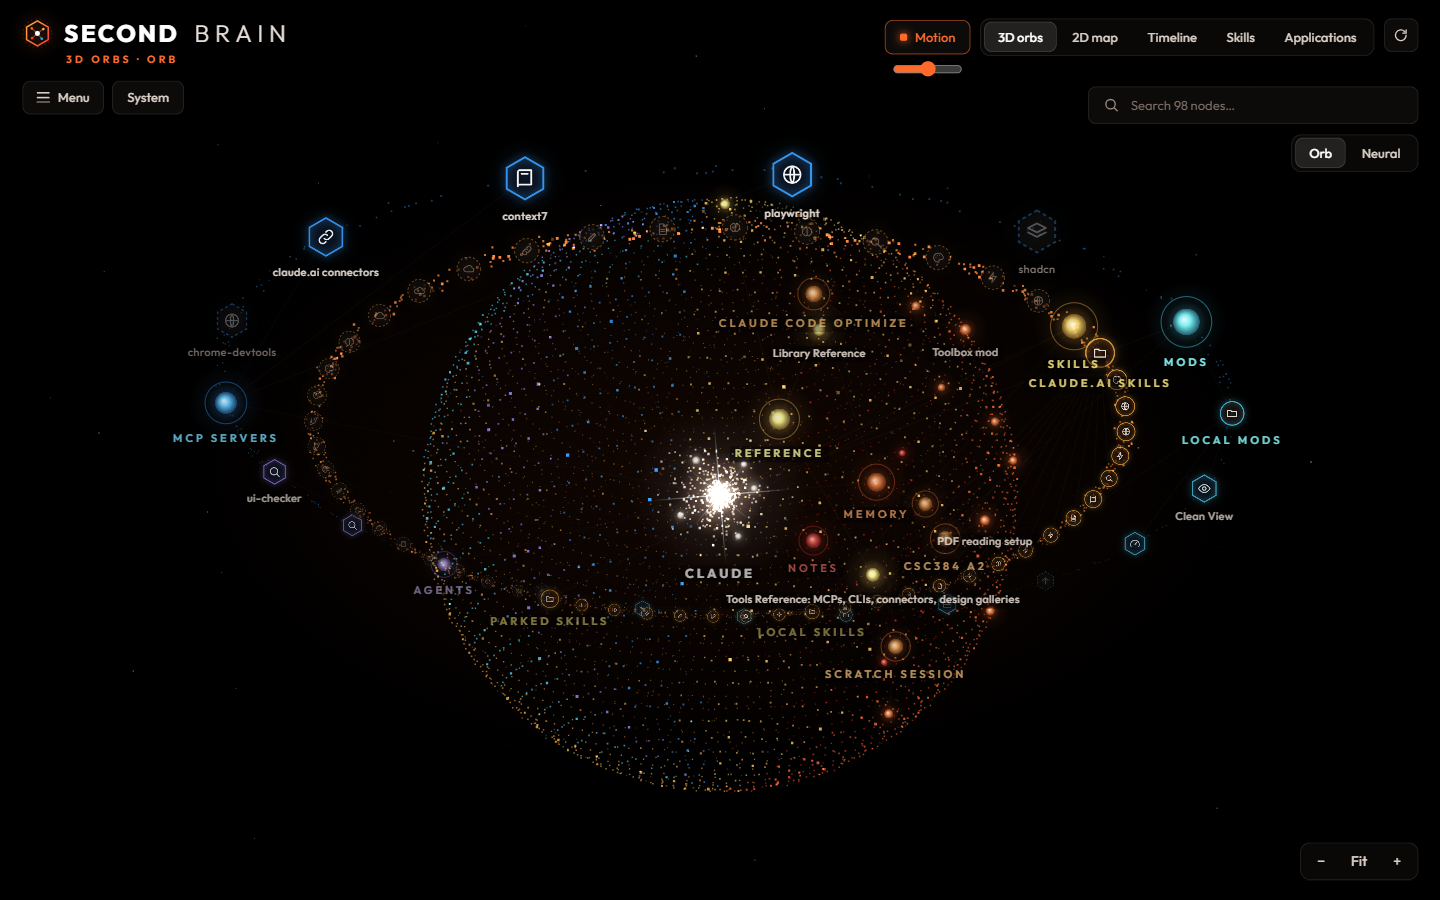
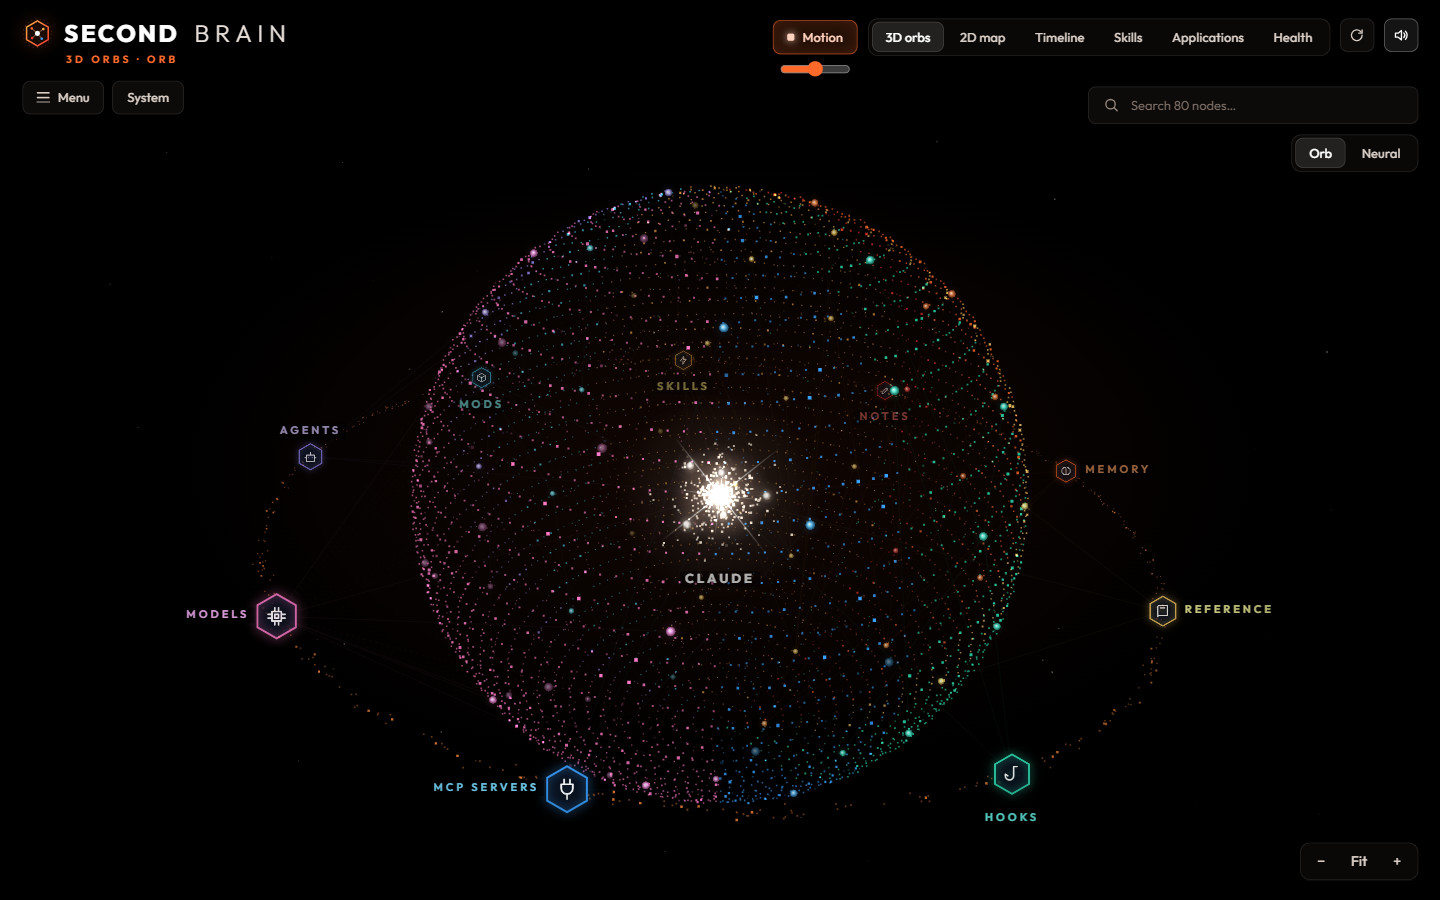
✨ feat: Add sound effects and view the orb ring from above
- Synthesize hover, select, close, view-change and button sounds with Web Audio, with a mute pill
- Flip the default orb camera pitch so the nearest hubs sit at the bottom and look biggest
- Add a ?demo URL switch for screenshots
- Refresh the README screenshots and social preview image

diff --git a/js/app.js b/js/app.js
@@ -8,6 +8,7 @@ function startSecondBrain(isDemo) {
   }
   const { Physics, OrbitCamera } = window.NeuralEngine;
   const Layouts = window.NeuralLayouts;
+  const Sfx = window.NeuralSfx || { play() {}, setEnabled() {} }; // sound is optional
   const TAU = Math.PI * 2;
 
   // Warm palette: knowledge in oranges and reds, tools that reach outside (mods, MCP, agents) in cool accents.
@@ -152,10 +153,11 @@ function startSecondBrain(isDemo) {
 
   // ---------- views and layouts ----------
   const PREF_KEY = 'second-brain:view';
-  const prefs = { view: 'orbs', sub: { orbs: 'orb', map: 'rings' } };
+  const prefs = { view: 'orbs', sub: { orbs: 'orb', map: 'rings' }, sound: true };
   try {
     const saved = JSON.parse(localStorage.getItem(PREF_KEY) || '{}');
     if (typeof saved.view === 'string') prefs.view = saved.view;
+    if (typeof saved.sound === 'boolean') prefs.sound = saved.sound;
     if (saved.sub && typeof saved.sub === 'object') for (const k of ['orbs', 'map']) if (typeof saved.sub[k] === 'string') prefs.sub[k] = saved.sub[k];
   } catch { /* storage blocked or malformed */ }
   const savePrefs = () => { try { localStorage.setItem(PREF_KEY, JSON.stringify(prefs)); } catch { /* storage blocked */ } };
@@ -164,6 +166,7 @@ function startSecondBrain(isDemo) {
   function setLayout(name) {
     if (name === layout || !Layouts.names.includes(name)) return;
     const wasFlat = state.flat, first = layout === null;
+    if (!first) Sfx.play('morph');
     layout = name;
     state.layout = name;
     const res = Layouts.build(name, layoutCtx, DUST_COUNT);
@@ -184,7 +187,7 @@ function startSecondBrain(isDemo) {
       if (!first) physics.reheat(1);
     }
     if (state.flat) { cam.goal.yaw = Math.round(cam.goal.yaw / TAU) * TAU; cam.goal.pitch = 0; }
-    else if (wasFlat || first) cam.goal.pitch = -0.46;
+    else if (wasFlat || first) cam.goal.pitch = 0.46;
     if (!state.selected) recenter();
   }
 
@@ -412,6 +415,7 @@ function startSecondBrain(isDemo) {
     if (state.hovered === n) return;
     state.hovered = n;
     if (!n || isPhone()) { tooltip.hidden = true; state.tooltipAt = null; return; }
+    Sfx.play('hover', n);
     tooltip.style.setProperty('--c', n.color);
     tooltip.innerHTML = `<div class="t">${esc(TYPE_NAMES[n.type]).toUpperCase()}${n.sub && n.sub !== 'memory' ? ' · ' + esc(n.sub).toUpperCase() : ''}</div><strong>${esc(n.label)}</strong>${n.desc ? `<span>${esc(truncate(n.desc, 110))}</span>` : ''}`;
     tooltip.hidden = false;
@@ -471,6 +475,7 @@ function startSecondBrain(isDemo) {
   function select(n) {
     if (!n) return;
     if (!n.visibleNow) { for (const f of FILTERS) if (f.dormant ? n.active === false : f.types.includes(n.channel)) hidden.delete(f.key); refreshVisibility(); renderFilters(); }
+    if (state.selected !== n) Sfx.play('select', n);
     state.selected = n;
     setHover(null);
     fitting = false;
@@ -526,6 +531,7 @@ function startSecondBrain(isDemo) {
 
   function closePanel() {
     if (!state.selected) return;
+    Sfx.play('close');
     state.selected = null;
     panel.classList.remove('open');
     panel.setAttribute('aria-hidden', 'true');
@@ -700,10 +706,16 @@ function startSecondBrain(isDemo) {
   const syncOrbitBtn = () => { orbitBtn.classList.toggle('on', autoOrbit); orbitBtn.setAttribute('aria-pressed', String(autoOrbit)); };
   orbitBtn.addEventListener('click', () => { autoOrbit = !autoOrbit; lastInteract = 0; syncOrbitBtn(); });
   syncOrbitBtn();
+  const soundBtn = $('#sound');
+  const syncSoundBtn = () => { soundBtn.classList.toggle('on', prefs.sound); soundBtn.setAttribute('aria-pressed', String(prefs.sound)); };
+  Sfx.setEnabled(prefs.sound); syncSoundBtn();
+  soundBtn.addEventListener('click', () => { prefs.sound = !prefs.sound; Sfx.setEnabled(prefs.sound); syncSoundBtn(); savePrefs(); });
+  // A soft tap for every other button in the HUD.
+  document.addEventListener('click', (e) => { const b = e.target.closest('button'); if (b && b !== soundBtn) Sfx.play('tap'); });
   speed.addEventListener('input', () => { state.motion = Number(speed.value) / 100; });
   $('#recenter').addEventListener('click', () => {
     if (state.selected) closePanel(); else recenter();
-    cam.goal.pitch = state.flat ? 0 : -0.46;
+    cam.goal.pitch = state.flat ? 0 : 0.46;
     state.highlight = null; activeDay = null; renderActivity();
     input.value = ''; state.searchHits = null; results.hidden = true;
   });

diff --git a/js/sfx.js b/js/sfx.js
@@ -1,0 +1,84 @@
+// Sound effects, synthesized with the Web Audio API (no audio files, no dependencies). Exposes window.NeuralSfx.
+// The AudioContext is created lazily on the first sound, which always follows a click, so browsers allow it.
+(() => {
+  let ac = null, master = null, enabled = true, lastHover = 0;
+
+  function ctx() {
+    if (ac) { if (ac.state === 'suspended') ac.resume(); return ac; }
+    const AC = window.AudioContext || window.webkitAudioContext;
+    if (!AC) return null;
+    ac = new AC();
+    const comp = ac.createDynamicsCompressor();
+    master = ac.createGain();
+    master.gain.value = 0.22;
+    master.connect(comp).connect(ac.destination);
+    return ac;
+  }
+
+  // One enveloped oscillator: quick attack, exponential decay, optional pitch glide.
+  function tone({ freq, to = freq, type = 'sine', at = 0, dur = 0.12, vol = 0.5, attack = 0.005 }) {
+    const t = ac.currentTime + at, o = ac.createOscillator(), g = ac.createGain();
+    o.type = type;
+    o.frequency.setValueAtTime(freq, t);
+    if (to !== freq) o.frequency.exponentialRampToValueAtTime(to, t + dur);
+    g.gain.setValueAtTime(0.0001, t);
+    g.gain.exponentialRampToValueAtTime(vol, t + attack);
+    g.gain.exponentialRampToValueAtTime(0.0001, t + dur);
+    o.connect(g).connect(master);
+    o.start(t); o.stop(t + dur + 0.02);
+  }
+
+  // Band-passed noise swept from `from` to `to` Hz: a soft whoosh.
+  let noiseBuf = null;
+  function whoosh({ from = 300, to = 2400, dur = 0.7, vol = 0.35 }) {
+    if (!noiseBuf) {
+      noiseBuf = ac.createBuffer(1, ac.sampleRate, ac.sampleRate);
+      const d = noiseBuf.getChannelData(0);
+      for (let i = 0; i < d.length; i++) d[i] = Math.random() * 2 - 1;
+    }
+    const t = ac.currentTime, src = ac.createBufferSource(), bp = ac.createBiquadFilter(), g = ac.createGain();
+    src.buffer = noiseBuf; src.loop = true;
+    bp.type = 'bandpass'; bp.Q.value = 1.2;
+    bp.frequency.setValueAtTime(from, t);
+    bp.frequency.exponentialRampToValueAtTime(to, t + dur * 0.55);
+    bp.frequency.exponentialRampToValueAtTime(from * 1.5, t + dur);
+    g.gain.setValueAtTime(0.0001, t);
+    g.gain.exponentialRampToValueAtTime(vol, t + dur * 0.35);
+    g.gain.exponentialRampToValueAtTime(0.0001, t + dur);
+    src.connect(bp).connect(g).connect(master);
+    src.start(t); src.stop(t + dur + 0.05);
+  }
+
+  // Each node type gets its own note (a pentatonic scale), so selections sound related but distinct.
+  const SCALE = [523.25, 587.33, 659.25, 783.99, 880, 1046.5, 1174.66, 1318.51];
+  const TYPES = ['core', 'hub', 'memory', 'note', 'skill', 'hook', 'mod', 'mcp', 'agent', 'model', 'reference', 'section', 'project', 'group'];
+  const noteFor = (type) => SCALE[Math.max(0, TYPES.indexOf(type)) % SCALE.length];
+
+  const SOUNDS = {
+    tap: () => tone({ freq: 1400, to: 900, dur: 0.05, vol: 0.18, type: 'triangle' }),
+    hover: (n) => tone({ freq: noteFor(n && n.type) * 2, dur: 0.06, vol: 0.05 }),
+    select: (n) => {
+      const f = noteFor(n && n.type);
+      tone({ freq: f, dur: 0.5, vol: 0.32 });
+      tone({ freq: f * 1.5, at: 0.06, dur: 0.6, vol: 0.2 });
+      tone({ freq: f * 3, at: 0.06, dur: 0.25, vol: 0.05 });
+    },
+    close: () => tone({ freq: 700, to: 380, dur: 0.16, vol: 0.16, type: 'triangle' }),
+    morph: () => { whoosh({}); tone({ freq: 196, to: 261.6, dur: 0.8, vol: 0.12, attack: 0.2 }); },
+    on: () => { tone({ freq: 660, dur: 0.1, vol: 0.2 }); tone({ freq: 990, at: 0.07, dur: 0.16, vol: 0.18 }); },
+  };
+
+  // Browsers only let audio start after a gesture; until then stay silent (no console warnings, no queued sounds).
+  let unlocked = false;
+  const unlock = () => { unlocked = true; };
+  for (const ev of ['pointerdown', 'keydown']) window.addEventListener(ev, unlock, { once: true, capture: true });
+
+  function play(name, arg) {
+    if (!enabled || !unlocked || !SOUNDS[name]) return;
+    if (name === 'hover') { const now = performance.now(); if (now - lastHover < 70) return; lastHover = now; }
+    try { if (ctx()) SOUNDS[name](arg); } catch { /* audio unavailable */ }
+  }
+  function setEnabled(on) { enabled = !!on; if (enabled) play('on'); }
+
+  window.NeuralSfx = { play, setEnabled, get enabled() { return enabled; } };
+})();

diff --git a/index.html b/index.html
@@ -88,6 +88,7 @@
         </div>
         <nav class="tabs" id="tabs" aria-label="Views"></nav>
         <button id="recenter" class="pill icon" aria-label="Reset view" title="Reset view"><svg viewBox="0 0 24 24"><path d="M20 12a8 8 0 1 1-2.3-5.6M20 4v5h-5"/></svg></button>
+        <button id="sound" class="pill icon on" aria-pressed="true" aria-label="Sound effects" title="Sound effects"><svg viewBox="0 0 24 24"><path d="M4 9v6h4l5 4V5L8 9H4z"/><path class="wave" d="M16.5 8.5a5 5 0 0 1 0 7M19 6a8.5 8.5 0 0 1 0 12"/><path class="mute" d="M16 9l6 6M22 9l-6 6"/></svg></button>
       </div>
       <div class="search">
         <label><svg viewBox="0 0 24 24" aria-hidden="true"><path d="M11 4a7 7 0 1 0 0 14 7 7 0 0 0 0-14zM21 21l-5-5"/></svg><input id="search" type="search" placeholder="Search the brain…" autocomplete="off" spellcheck="false" aria-label="Search the brain"></label>
@@ -164,11 +165,13 @@
 
   <script src="https://cdnjs.cloudflare.com/ajax/libs/marked/12.0.2/marked.min.js" integrity="sha384-/TQbtLCAerC3jgaim+N78RZSDYV7ryeoBCVqTuzRrFec2akfBkHS7ACQ3PQhvMVi" crossorigin="anonymous" referrerpolicy="no-referrer"></script>
   <script src="https://cdnjs.cloudflare.com/ajax/libs/dompurify/3.1.6/purify.min.js" integrity="sha384-+VfUPEb0PdtChMwmBcBmykRMDd+v6D/oFmB3rZM/puCMDYcIvF968OimRh4KQY9a" crossorigin="anonymous" referrerpolicy="no-referrer"></script>
-  <script src="data.js"></script>
+  <!-- ?demo skips your data.js and shows the bundled demo brain (used for README screenshots). -->
+  <script>if (!/[?&]demo\b/.test(location.search)) document.write('<script src="data.js"><\/script>');</script>
   <script src="js/engine.js"></script>
   <script src="js/glyphs.js"></script>
   <script src="js/layouts.js"></script>
   <script src="js/renderer.js"></script>
+  <script src="js/sfx.js"></script>
   <script src="js/app.js"></script>
 </body>
 </html>

diff --git a/css/style.css b/css/style.css
@@ -47,6 +47,8 @@ body.deck-open #graph { opacity: 0.22; pointer-events: none; }
 .pill.accent.on { color: #ffd2bd; background: rgba(255, 106, 43, 0.14); box-shadow: inset 0 0 14px rgba(255, 106, 43, 0.15); }
 .pill .sq { width: 7px; height: 7px; border-radius: 2px; background: currentColor; box-shadow: 0 0 8px currentColor; }
 .pill.icon { width: 34px; padding: 0; }
+#sound .mute, #sound.on .wave { display: inline; }
+#sound .wave, #sound.on .mute { display: none; }
 .pill svg, .search svg, .tabs svg { width: 16px; height: 16px; fill: none; stroke: currentColor; stroke-width: 2; stroke-linecap: round; stroke-linejoin: round; }
 
 .tabs, .subtabs, .seg { display: inline-flex; gap: 2px; padding: 3px; border: 1px solid var(--line); border-radius: calc(var(--radius) + 2px); background: rgba(10, 9, 8, 0.92); }
@@ -410,6 +412,7 @@ body.panel-open .deck { left: calc((100vw - var(--panel-w) - 44px) / 2); width: 
   .nav-row .tabs::-webkit-scrollbar { display: none; }
   .tabs .tab { flex: 1 0 auto; padding: 0 7px; font-size: 12px; }
   #recenter { order: 3; margin-left: auto; }
+  #sound { order: 4; }
   .search { width: 100%; }
   .subtabs { align-self: stretch; }
   .subtabs .tab { flex: 1; }

diff --git a/js/engine.js b/js/engine.js
@@ -101,10 +101,10 @@
   // Orbits a target point. Every property eases toward its `goal`, so fly-to, zoom and auto-rotate are just goal changes.
   class OrbitCamera {
     constructor() {
-      this.yaw = 0.6; this.pitch = -0.42; this.dist = 2600; this.focal = 900;
+      this.yaw = 0.6; this.pitch = 0.42; this.dist = 2600; this.focal = 900;
       this.tx = 0; this.ty = 0; this.tz = 0;
       this.cx = 0; this.cy = 0; // screen-space center of the view
-      this.goal = { yaw: 0.6, pitch: -0.42, dist: 1100, tx: 0, ty: 0, tz: 0, cx: 0, cy: 0 };
+      this.goal = { yaw: 0.6, pitch: 0.42, dist: 1100, tx: 0, ty: 0, tz: 0, cx: 0, cy: 0 };
       this.minDist = 140; this.maxDist = 3200;
     }
 

diff --git a/README.md b/README.md
@@ -72,7 +72,8 @@ The chrome stays minimal: tab pills, search, a Motion toggle with a speed slider
 - **Health check.** Computed at build time, so public builds get it too: memories missing from their `MEMORY.md` index, `[[links]]` to files that don't exist (examples inside code are ignored), missing descriptions, notes with no links, files untouched for 120+ days, and parked tools.
 - **Parked tools.** Skills, mods and MCP servers switched off in Toolbox still appear with dashed rims, so the brain shows everything installed.
 - **Menu drawer.** Telemetry with active/total counts, channel filters, a 30-day activity chart (click a day to light up what changed), an event log and a runtime readout.
-- **Remembers your view.** The last tab and layout come back on the next visit.
+- **Sound effects.** Soft synthesized cues for hovering, opening and closing nodes, switching views and pressing buttons (Web Audio, no audio files). The speaker pill next to Motion mutes them.
+- **Remembers your view.** The last tab, layout and sound setting come back on the next visit.
 - **Boot sequence.** A terminal-style cold start that reports what the scanner found, then the camera dives in.
 - **System screen.** An in-app architecture overview for anyone curious how it works.
 - **Privacy by construction.** Ordered redaction rules scrub emails, usernames and home paths. The build **fails** if anything personal survives, and MCP headers, env vars and arguments are never read into the output.
@@ -99,6 +100,7 @@ The chrome stays minimal: tab pills, search, a Motion toggle with a speed slider
 | [`js/glyphs.js`](js/glyphs.js) | Line icons for tool badges, picked from a tool's name with a per-type fallback. |
 | [`js/engine.js`](js/engine.js) | The d3-force model rebuilt for 3D (with a flat mode for the 2D force map): many-body repulsion, Hooke springs with degree bias, gravity, soft collisions and alpha cooling. Also an orbit camera where every property eases toward a goal. |
 | [`js/renderer.js`](js/renderer.js) | Starfield, the dust cloud (morphed point by point and batched by color and brightness), synapses with travelling pulses, glowing knowledge nodes, hex and bead badges, and the sparkle core. Glows, badges and icons are pre-rendered once and stamped with additive blending. Labels are placed greedily with overlap culling. |
+| [`js/sfx.js`](js/sfx.js) | Sound effects synthesized with Web Audio: enveloped tones (a note per node type) and a filtered-noise whoosh for view changes. Silent until the first click, as browsers require. |
 | [`js/app.js`](js/app.js) | HUD wiring: views and layouts, pointer and touch input, data sheet with copy buttons, skills, apps and health decks, menu drawer, filters, search, activity chart, boot sequence. |
 
 **Performance notes.** Nodes and links are created with one fixed shape so V8 keeps property access monomorphic, which made the physics loop about 7x faster. Sprites replace per-frame gradients, stars and dust are batched by color and brightness into a few dozen fills per frame, and the HUD skips `backdrop-filter`, since a blur over a live canvas halves the frame rate.
@@ -140,6 +142,7 @@ js/layouts.js         orb, circle, hex, rings and timeline layouts + dust
 js/glyphs.js          badge icons
 js/engine.js          3D physics + orbit camera (no dependencies)
 js/renderer.js        Canvas 2D renderer
+js/sfx.js             synthesized sound effects
 js/app.js             HUD wiring and interaction
 scripts/build.mjs     CLI entry: scan, redact, leak-check, write data.js
 scripts/lib/          text helpers, redaction, graph, scanners

diff --git a/context/PROGRESS_TRACKER.md b/context/PROGRESS_TRACKER.md
@@ -23,6 +23,10 @@ When old log entries stop being useful, fold them into the "Earlier history" par
 - Publish: create the public GitHub repo, enable Pages (main, root), set the About description, topics and social preview image.
 
 ## Session log
+### 2026-11-17 — orb camera, sound effects, refreshed images
+- Orb camera: the default pitch was negative, so the hub ring was seen from below (far side low and small, near side high). Default and reset pitch are now +0.42/+0.46 (from above): the nearest hubs sit at the bottom and look biggest.
+- Sound: `js/sfx.js` synthesizes cues with Web Audio (tap on any HUD button, hover tick, a two-note chime per node type on select, a falling blip on close, a whoosh on layout change). Silent until the first pointer or key press. Speaker pill `#sound` next to Motion; `prefs.sound` is saved with the view.
+- `index.html?demo` skips `data.js` and shows the demo brain (for screenshots). README `hero.png`, `rings.png` and `docs/og-image.png` re-shot with it.
 ### 2026-11-17 — Rings lattice and model catalog
 - Rings: items no longer sit on a separate Vogel spiral. Wedges keep the square-root `sectorize` size, which now counts only active items (so unused catalog models fill the Models wedge instead of widening it). Active items take the bright rows, parked/unused ones the faint rim (rows past 0.8, spilling inward when full); a crowded wedge gets a finer grid. Each wedge gets one lattice of 24 concentric rows (0.4–0.92 R), items take evenly spread slots and the dust fills the rest, so real nodes read as the grid's own dots.
 - Models: `MODEL_CATALOG` in `text.mjs` (Claude families + Gemini Flash/Pro, Gemma, ChatGPT Luna, GPT, Grok, Llama, DeepSeek, Qwen, Mistral, Kimi, GLM, Nemotron, Laguna). Every entry is a node; active when named (settings, agent/skill `model:`, mentions) or listed in `helpers/config.json` aliases (FreeLLMAPI, `from` set; the key is never read out, tested with a demo fake key). `stats.models` is now `{active,total}`. Drawer says INACTIVE for unused models; the dormant filter is "Parked & unused". ChatGPT Luna is active via a line added to `~/.claude/notes/local-tools-inventory.md`. On your data: 11/18 active.

diff --git a/AGENTS.md b/AGENTS.md
@@ -14,11 +14,11 @@ Vanilla JS (ES2022), Canvas 2D, Node 18.3+ (no npm dependencies). Browser loads 
 ## Commands
 - `npm run build` — scan your `~/.claude` into `data.js` · `npm run build:demo` — rebuild `demo/data.js`
 - `npm run open` — build, then open `index.html` · `npm test` — node:test suites (38 tests)
-- Playwright can't open `file://`; serve the folder over http (e.g. `npm run serve`, port 4173) to screenshot.
+- Playwright can't open `file://`; serve the folder over http (e.g. `npm run serve`, port 4173) to screenshot. Add `?demo` to the URL to show the demo brain instead of your `data.js` (use it for README images).
 
 ## Code map
 - `scripts/build.mjs` uses `scripts/lib/`: `sources.mjs` (one scanner per source, incl. parked tools and hooks from settings.json, mods and projects; agents are scanned recursively like Claude Code does; `scanModels` adds a Models hub with one node per `MODEL_CATALOG` entry in `text.mjs` (Claude families plus Gemini, GPT, Qwen and other popular models), active only when something names it or `helpers/config.json` (FreeLLMAPI aliases; never its key) lists it), `graph.mjs` (nodes, links, cross-links; keeps `unresolved` and `refs` for health), `health.mjs` (build-time checks → `BRAIN.health` + `stats.health`; keep its kinds in sync with `HEALTH_KINDS` in `app.js`), `redact.mjs` (scrub + leak check), `text.mjs` (incl. `modelFamily`). Writes `data.js` (`window.BRAIN`).
-- Browser scripts are classic (no modules) so the page opens from `file://`: `engine.js` (physics + camera, `flat` mode), `layouts.js` (targets + dust per layout), `glyphs.js` (badge icons), `renderer.js`, `app.js` (HUD, views, decks, drawer). `window.__brain` is a devtools handle.
+- Browser scripts are classic (no modules) so the page opens from `file://`: `engine.js` (physics + camera, `flat` mode), `layouts.js` (targets + dust per layout), `glyphs.js` (badge icons), `renderer.js`, `sfx.js` (Web Audio sound effects, `window.NeuralSfx`; optional), `app.js` (HUD, views, decks, drawer). `window.__brain` is a devtools handle.
 - Details: `context/ARCHITECTURE.md`; look and UI rules: `context/UI_RULES.md`, `context/UI_TOKENS.md`.
 
 ## Conventions

diff --git a/context/ARCHITECTURE.md b/context/ARCHITECTURE.md
@@ -19,6 +19,7 @@ Read before touching the build, layouts or renderer. Update when a layer, data f
   - Branch kinds: `inner` (knowledge hubs), `bead` (skills, hooks), `app` (mods, MCP, agents, models). Kinds only weight sectors in Circle/Hex now; Orb and Rings treat every branch alike (hubs on one ring by `hubAngles`, marked by `markDotsAndRing`). Orb deals items into wedges with `dealWedges`; Rings keeps `sectorize` sizes (sqrt of active item count), builds one row lattice per wedge and gives items evenly spread slots of it (active in the bright rows, parked/unused in the faint rim), the dust taking the rest.
 - **engine.js:** `Physics` (d3-force style in 3D; `flat` decays z) and `OrbitCamera` (goal-easing; `project`, `rotate`, `unprojectDelta`).
 - **renderer.js:** draw order is stars → dust → captions → links → nodes → labels → reticles. Dust is stored as typed arrays, morphed from the previous cloud (`setDust`, `burst`) and bucketed by color × brightness. Glow, body, spark and badge sprites are cached once per key.
+- **sfx.js:** `window.NeuralSfx` (`play(name, node)`, `setEnabled`). Sounds are synthesized per call (oscillators + one cached noise buffer) into a compressor and master gain; nothing plays before the first pointer or key press. app.js falls back to a no-op if it is missing.
 - **glyphs.js:** `PATHS` (24×24 stroke icons) and `glyphFor(node)` (name regex rules, then a type fallback).
 
 ## Camera modes
